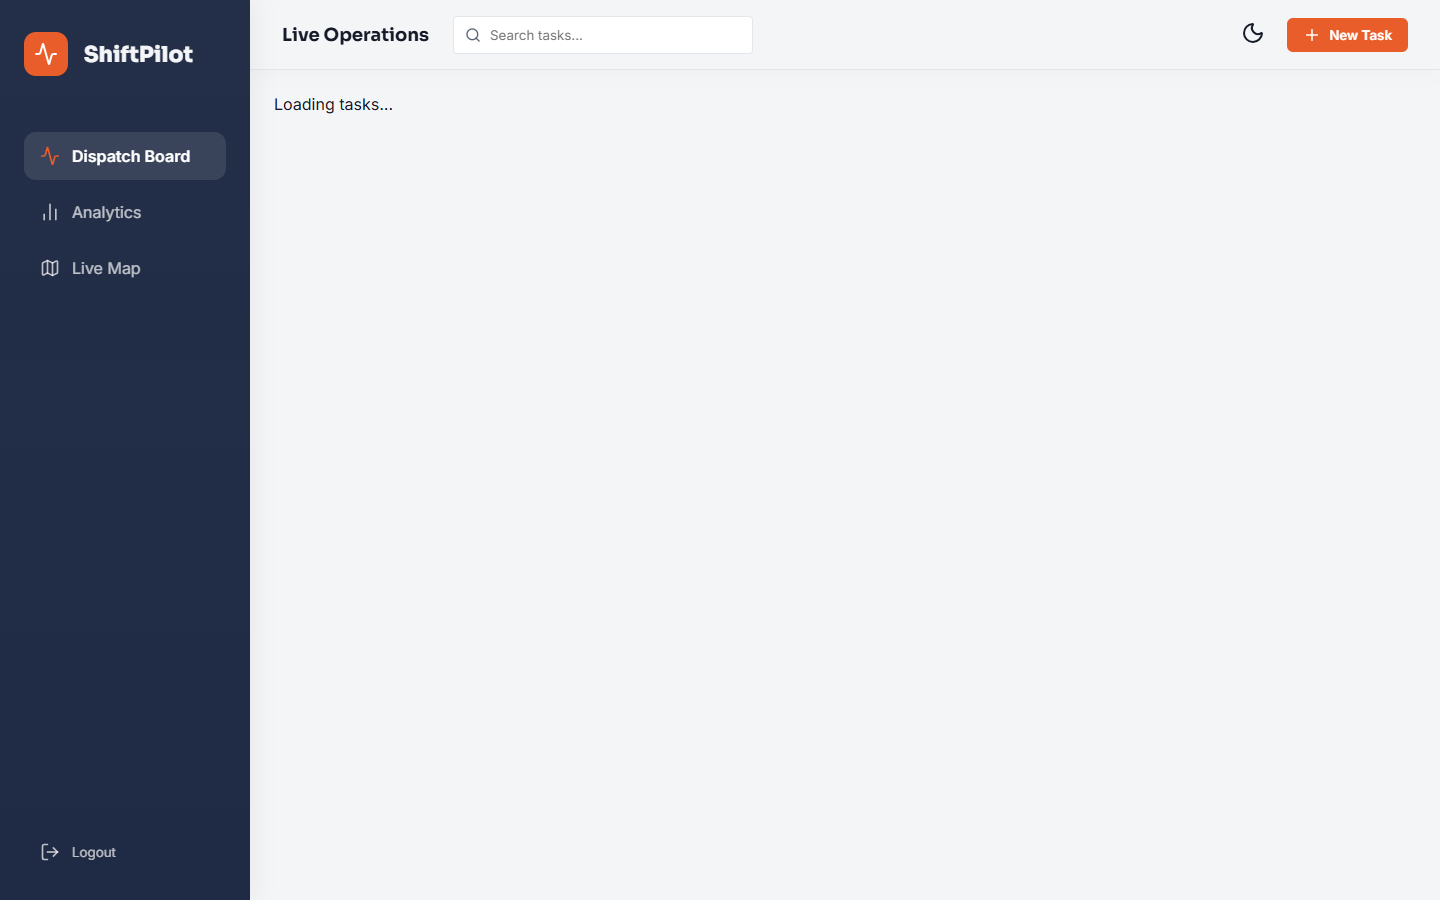
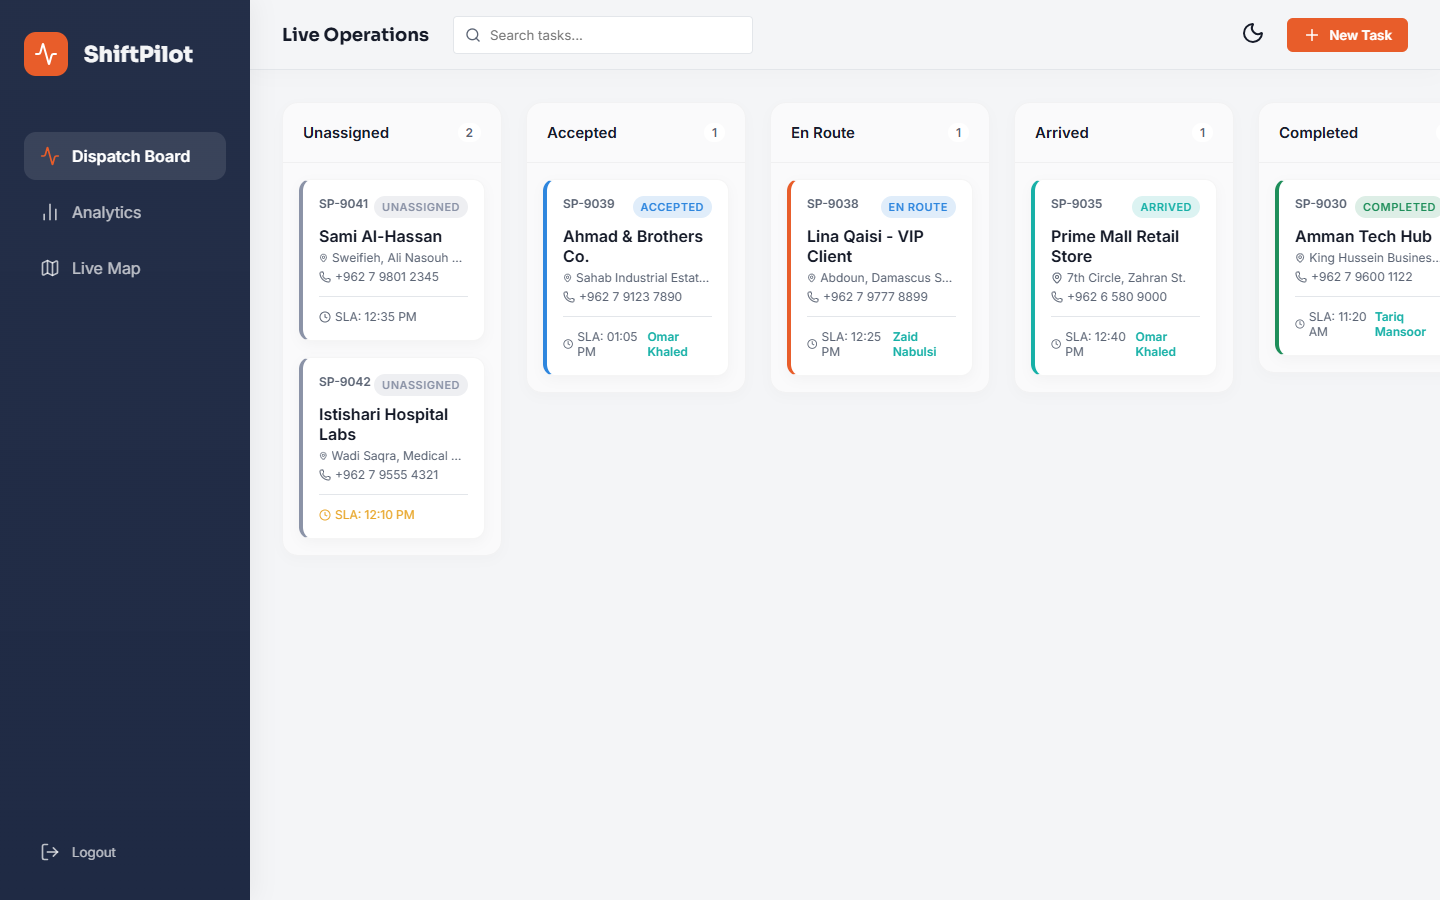
docs: add populated light and dark mode screenshots for dispatch board, analytics, map, and agent mobile

diff --git a/frontend/src/services/api.ts b/frontend/src/services/api.ts
@@ -1,5 +1,6 @@
 import axios from 'axios';
 import { useAuthStore } from '../store/authStore';
+import type { Task } from '../types';
 
 export const api = axios.create({
   baseURL: 'http://localhost:8080/api/v1',
@@ -12,3 +13,151 @@ api.interceptors.request.use((config) => {
   }
   return config;
 });
+
+const mockTasks: Task[] = [
+  {
+    id: 'task-1',
+    referenceCode: 'SP-9041',
+    customerName: 'Sami Al-Hassan',
+    customerPhone: '+962 7 9801 2345',
+    address: 'Sweifieh, Ali Nasouh St., Bldg 14',
+    taskType: 'Express Delivery',
+    notes: 'Fragile electronics. Handle with care.',
+    status: 'UNASSIGNED',
+    slaDeadline: new Date(Date.now() + 45 * 60000).toISOString(),
+    atRisk: false,
+    breached: false,
+    createdAt: new Date().toISOString(),
+    completedAt: null,
+    assignedAgentId: null,
+    assignedAgentName: null
+  },
+  {
+    id: 'task-2',
+    referenceCode: 'SP-9042',
+    customerName: 'Istishari Hospital Labs',
+    customerPhone: '+962 7 9555 4321',
+    address: 'Wadi Saqra, Medical Arts Building',
+    taskType: 'Medical Urgent',
+    notes: 'Cooler box temperature sensitive.',
+    status: 'UNASSIGNED',
+    slaDeadline: new Date(Date.now() + 20 * 60000).toISOString(),
+    atRisk: true,
+    breached: false,
+    createdAt: new Date().toISOString(),
+    completedAt: null,
+    assignedAgentId: null,
+    assignedAgentName: null
+  },
+  {
+    id: 'task-3',
+    referenceCode: 'SP-9039',
+    customerName: 'Ahmad & Brothers Co.',
+    customerPhone: '+962 7 9123 7890',
+    address: 'Sahab Industrial Estate, Block 4',
+    taskType: 'Hardware Dispatch',
+    notes: 'Heavy parcel. Contact receiver upon arrival.',
+    status: 'ACCEPTED',
+    slaDeadline: new Date(Date.now() + 75 * 60000).toISOString(),
+    atRisk: false,
+    breached: false,
+    createdAt: new Date().toISOString(),
+    completedAt: null,
+    assignedAgentId: 'agent_01',
+    assignedAgentName: 'Omar Khaled'
+  },
+  {
+    id: 'task-4',
+    referenceCode: 'SP-9038',
+    customerName: 'Lina Qaisi - VIP Client',
+    customerPhone: '+962 7 9777 8899',
+    address: 'Abdoun, Damascus St., Villa 12',
+    taskType: 'Contract Clearance',
+    notes: 'Signature verification required.',
+    status: 'EN_ROUTE',
+    slaDeadline: new Date(Date.now() + 35 * 60000).toISOString(),
+    atRisk: false,
+    breached: false,
+    createdAt: new Date().toISOString(),
+    completedAt: null,
+    assignedAgentId: 'agent_02',
+    assignedAgentName: 'Zaid Nabulsi'
+  },
+  {
+    id: 'task-5',
+    referenceCode: 'SP-9035',
+    customerName: 'Prime Mall Retail Store',
+    customerPhone: '+962 6 580 9000',
+    address: '7th Circle, Zahran St.',
+    taskType: 'Store Restock',
+    notes: 'Loading bay B.',
+    status: 'ARRIVED',
+    slaDeadline: new Date(Date.now() + 50 * 60000).toISOString(),
+    atRisk: false,
+    breached: false,
+    createdAt: new Date().toISOString(),
+    completedAt: null,
+    assignedAgentId: 'agent_01',
+    assignedAgentName: 'Omar Khaled'
+  },
+  {
+    id: 'task-6',
+    referenceCode: 'SP-9030',
+    customerName: 'Amman Tech Hub',
+    customerPhone: '+962 7 9600 1122',
+    address: 'King Hussein Business Park',
+    taskType: 'Server Parts Delivery',
+    notes: 'Completed ahead of SLA.',
+    status: 'COMPLETED',
+    slaDeadline: new Date(Date.now() - 30 * 60000).toISOString(),
+    atRisk: false,
+    breached: false,
+    createdAt: new Date(Date.now() - 120 * 60000).toISOString(),
+    completedAt: new Date(Date.now() - 15 * 60000).toISOString(),
+    assignedAgentId: 'agent_03',
+    assignedAgentName: 'Tariq Mansoor'
+  }
+];
+
+// Offline fallback for demo / UI showcase
+api.interceptors.response.use(
+  (response) => response,
+  async (error) => {
+    const url = error.config?.url || '';
+
+    if (!error.response || error.code === 'ERR_NETWORK' || error.message?.includes('Network Error')) {
+      if (url.includes('/tasks/analytics')) {
+        return {
+          data: {
+            totalTasks: 48,
+            completedTasks: 35,
+            activeTasks: 9,
+            unassignedTasks: 4,
+            tasksByStatus: {
+              'UNASSIGNED': 4,
+              'ACCEPTED': 3,
+              'EN_ROUTE': 4,
+              'ARRIVED': 2,
+              'COMPLETED': 35
+            },
+            completionRate: 94.2
+          }
+        };
+      }
+
+      if (url.includes('/tasks/agent/')) {
+        return {
+          data: mockTasks.filter(t => t.assignedAgentId === 'agent_01' || t.status === 'ACCEPTED' || t.status === 'ARRIVED')
+        };
+      }
+
+      if (url.includes('/tasks')) {
+        return {
+          data: mockTasks
+        };
+      }
+    }
+
+    return Promise.reject(error);
+  }
+);

diff --git a/README.md b/README.md
@@ -12,15 +12,32 @@ ShiftPilot is a real-time dispatch and field operations platform built for SMEs 
 
 ---
 
-## Visual Preview & Interface
+## Visual Preview & Interface (Light & Dark Mode)
 
-| Real-Time Dispatcher Console | Dispatcher Authentication |
+### Real-Time Dispatcher Console (Kanban Board)
+| Light Mode | Dark Mode |
 | :---: | :---: |
-| ![ShiftPilot Dispatcher Board](docs/screenshots/01-dispatch-board.png) | ![ShiftPilot Login](docs/screenshots/02-auth-login.png) |
+| ![ShiftPilot Dispatch Board Light](docs/screenshots/01-dispatch-board-light.png) | ![ShiftPilot Dispatch Board Dark](docs/screenshots/01-dispatch-board-dark.png) |
 
-| Field Agent Mobile View |
-| :---: |
-| <img src="docs/screenshots/03-agent-mobile.png" width="380" alt="Field Agent Mobile View" /> |
+### Fleet Analytics & SLA Metrics
+| Light Mode | Dark Mode |
+| :---: | :---: |
+| ![ShiftPilot Analytics Light](docs/screenshots/02-analytics-light.png) | ![ShiftPilot Analytics Dark](docs/screenshots/02-analytics-dark.png) |
+
+### Live Field Operations Map
+| Light Mode | Dark Mode |
+| :---: | :---: |
+| ![ShiftPilot Live Map Light](docs/screenshots/03-live-map-light.png) | ![ShiftPilot Live Map Dark](docs/screenshots/03-live-map-dark.png) |
+
+### Field Agent Mobile Task Interface
+| Agent Route (Light) | Agent Route (Dark) |
+| :---: | :---: |
+| <img src="docs/screenshots/04-agent-mobile-light.png" width="340" alt="Agent Mobile View Light" /> | <img src="docs/screenshots/04-agent-mobile-dark.png" width="340" alt="Agent Mobile View Dark" /> |
+
+### Portal Authentication
+| Dispatcher Login | Field Agent Mobile Login |
+| :---: | :---: |
+| ![Dispatcher Login](docs/screenshots/05-auth-login-light.png) | ![Agent Login](docs/screenshots/06-agent-login-dark.png) |
 
 ---
 
